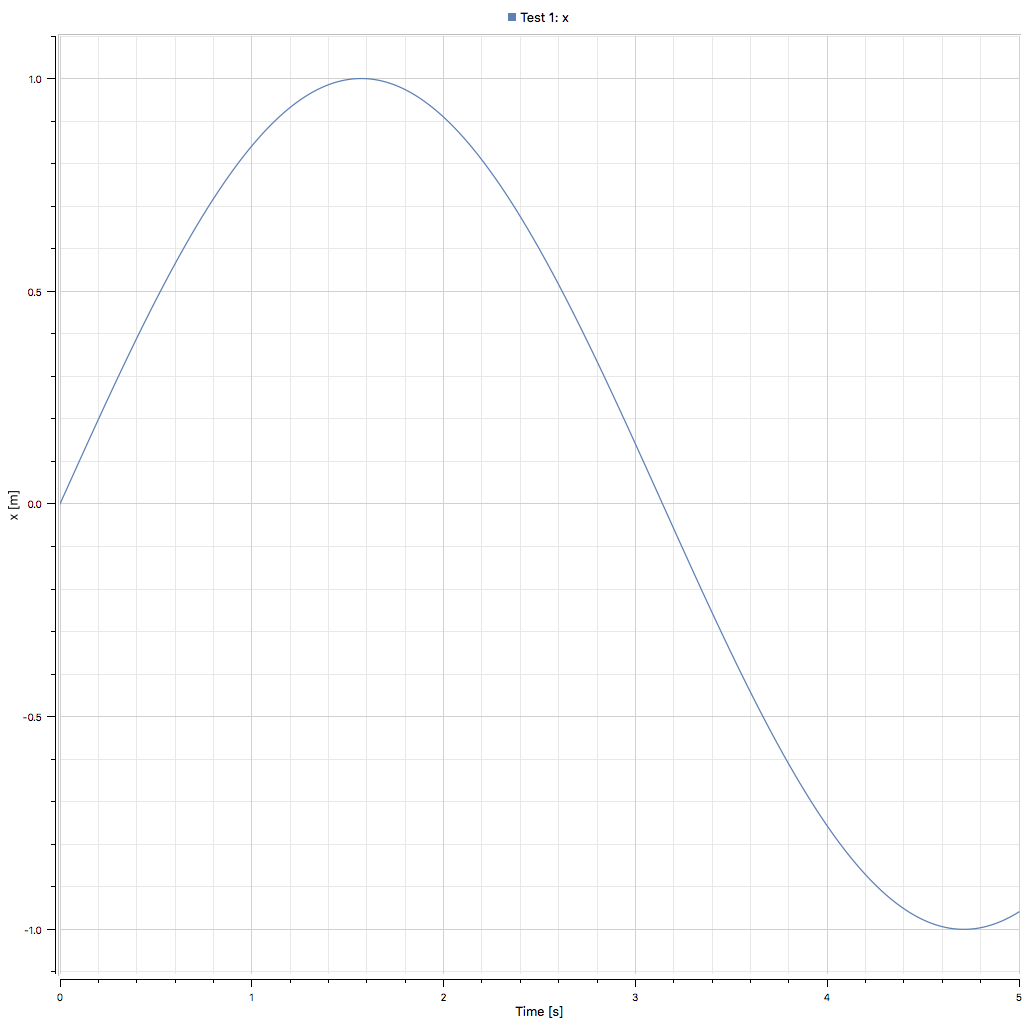
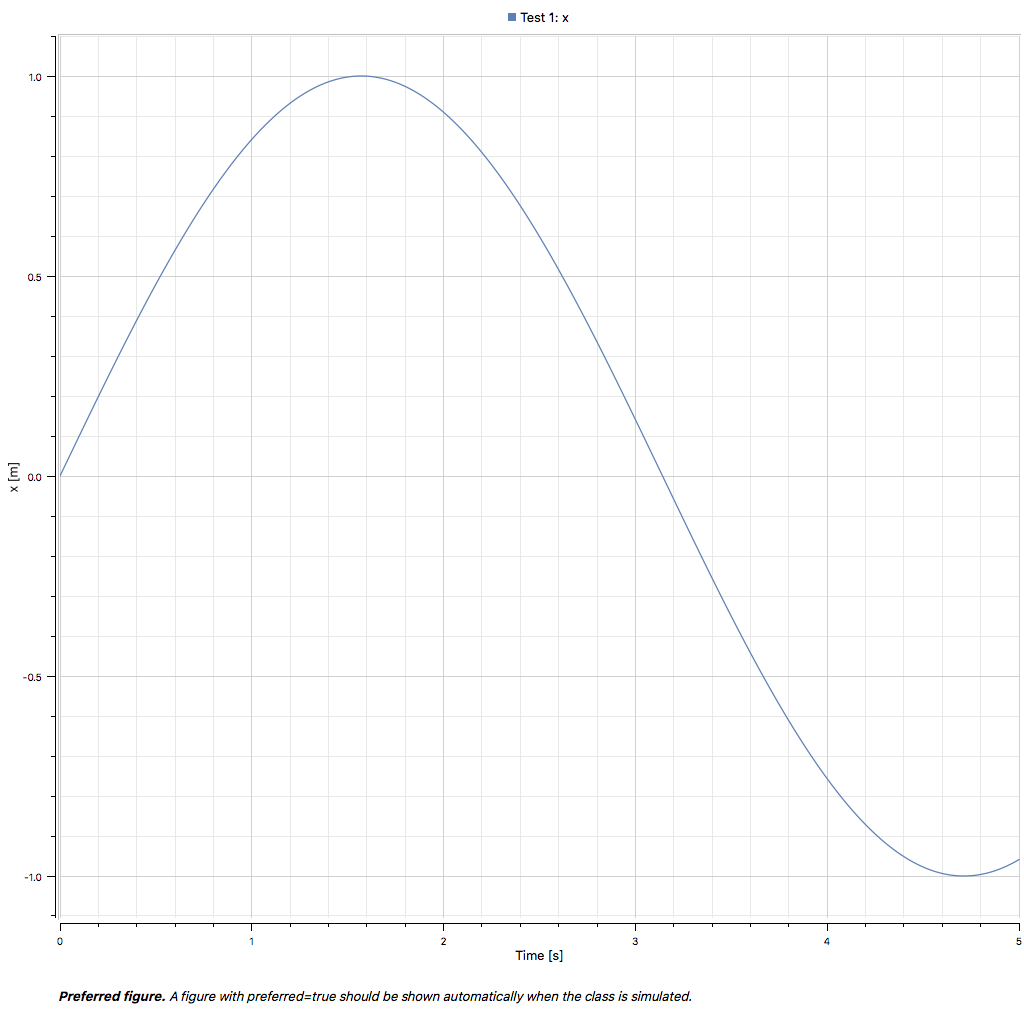
Added more descriptive captions

diff --git a/SystemModeler/README.md b/SystemModeler/README.md
@@ -27,7 +27,8 @@ Figure(
         Plot(curves={Curve(y=x)}),
         Plot(
             curves={Curve(y=y)},
-            x=Axis(min=1000000, max=2000000, unit="us"))})
+            x=Axis(min=1000000, max=2000000, unit="us"))},
+    caption="The plots in a figure can have different ranges for their respective axis.")
 ```
 <img src="27b52.png" alt="Figure" width=300 />
 
@@ -78,18 +79,20 @@ Figure(
     group="Multiple Plots",
     plots={
         Plot(curves={Curve(y=x, legend="x(t)")}),
-        Plot(curves={Curve(x=x, y=y, legend="(x(t), y(t))")})})
+        Plot(curves={Curve(x=x, y=y, legend="(x(t), y(t))")})},
+    caption="It's possible to have curves with a variable as a function of time %[x(t)](variable:x) as well as parametric curves (%[x(t)](variable:x), %[y(t)](variable:y))")
 ```
 <img src="03671.png" alt="Figure" width=300 />
 
 ---
 ```
 Figure(
-    title="Preferred plot",
+    title="Preferred figure",
     identifier="105c9",
     preferred=true,
     plots={
-        Plot(curves={Curve(y=x)})})
+        Plot(curves={Curve(y=x)})},
+    caption="A figure with preferred=true should be shown automatically when the class is simulated.")
 ```
 <img src="105c9.png" alt="Figure" width=300 />
 
@@ -109,25 +112,36 @@ Figure(
             identifier="plot-y",
             curves={Curve(y=y)},
             x=Axis(unit="us"))},
-    caption="A caption can have\nmultiple paragraphs and contain different links and variable replacements. \nThe value of %(variable:x) at the end of simulation is %{x}.\nPlot links: %(plot:plot-x), %[first plot](plot:plot-x)\n Variable links: %(variable:y), %[y(t)](variable:y)\n Modelica URI: %(modelica:///Modelica.Blocks), %[link](modelica:///Modelica.Blocks).\nGeneric URI: %(http://www.modelica.org), %[link](http://www.modelica.org).")
+    caption="
+A caption can have multiple paragraphs and contain different links and variable replacements.  Empty lines can be inserted before and after paragraphs for improved readability.
+
+The value of %(variable:x) at the end of simulation is %{x}.
+Plot links: %(plot:plot-x), %[first plot](plot:plot-x)
+Variable links: %(variable:y), %[y(t)](variable:y)
+Modelica URI: %(modelica:///Modelica.Blocks), %[link](modelica:///Modelica.Blocks).
+Generic URI: %(http://www.modelica.org), %[link](http://www.modelica.org).
+")
 ```
 <img src="b014d.png" alt="Figure" width=300 />
 
 ---
 ```
 Figure(
-    title="No legend",
+    title="Empty legend",
     identifier="e8011",
     group="Multiple Plots",
     plots={
         Plot(
-            title="Plot of x",
-            identifier="plot-x",
-            curves={Curve(y=x, legend="")}),
+            title="No Legend",
+            curves={
+                Curve(y=x, legend=""),
+                Curve(y=y, legend="")}),
         Plot(
-            title="Plot of y",
-            identifier="plot-y",
-            curves={Curve(y=y, legend="")})})
+            title="One Legend",
+            curves={
+                Curve(y=x, legend="x legend"),
+                Curve(y=y, legend="")})},
+    caption="Providing the empty string as legend means that the curve shall be omitted from the plot legend.")
 ```
 <img src="e8011.png" alt="Figure" width=300 />
 
@@ -140,7 +154,8 @@ Figure(
     plots={
         Plot(
             curves={Curve(y=x)},
-            x=Axis(unit="ms"))})
+            x=Axis(unit="ms"))},
+    caption="Autoscaling can be used in combination with changing the axis display unit")
 ```
 <img src="e1bbb.png" alt="Figure" width=300 />
 
